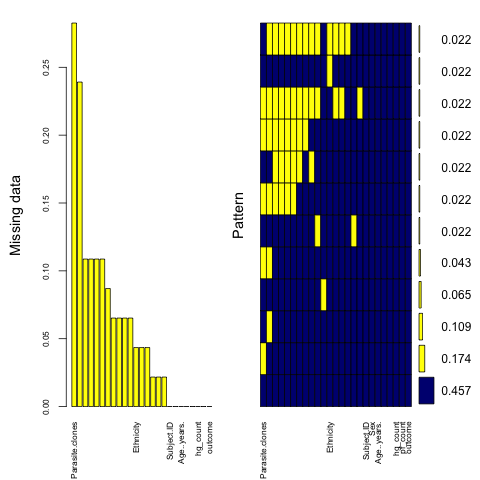
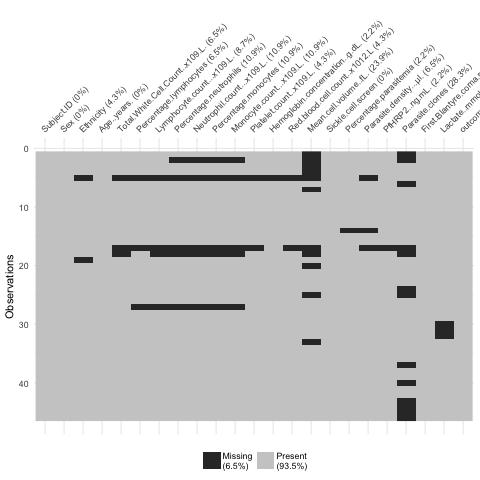
updated

diff --git a/shinyapp2/md/discussion.md b/shinyapp2/md/discussion.md
@@ -1,5 +1,24 @@
 ## Discussion
 
+A parametric model was appropriate in our case, as the data showed fairly normal distributions (see chapter _Methods_ [INSERT LINK HERE]) and we could identify linear relationships between variables and the response variable. Also, we had very few data available that it was not possible to divide the data into separate train and test data sets to use more elaborate Machine Learning methods, including Random Forest, Support Vector Machines (SVMs), and Elastic map.  
+We wanted to avoid such models that generate highly complex, non-linear relationships between the predictors and the outcome. Also, we wanted to keep the model interpretable, more complex models quickly tend to lose interpretability and more importantly, overfit the data.
+Another aspect we considered when designing the models was which type of data data a user is most likely to have. 
+Once more data has become available, it might be meaningful to explore more elaborate non-parametric predictive models that are more powerful. 
+
+We might want to consider models where outliers do not have much influence on the model, eg tree-based classification models if we formulate our problem as a classification problem. Also SVM (Support Vector Machines) for classification generally disregard a part of the training set (that may be far away from the decision boundary and outside of the data mainstream) when creating a prediction equation. However, there is always a trade-off between performance on existent data set and over-fitting, and also the loss of interpretability in case of Machine Learning methods. In any case, the complex model should be properly validated.
+<!--
+Thre predictive performance, provided the complex model is properly validated, may compensate the loss in interpretation. 
+-->
+However, this was not the purpose of this project.
+
+For more complex models, one might want to incorporate the information of the developmental stage of the disease (given by the surrogate proportion variables (SPVs) at different time points in the life cycle) as well the level of gametocytes (Gam5) representing the sexual stage of the parasite.
+The observations found in chapter _Data preparation_ [INSERT LINK HERE] might help for that.
+
+Also, additional insight might be gained by comparing different species. We developed a logistic regression on the mouse data set; however, comparison to our models behind this web tool here, turned out to be difficult as it was not based on the same measurements and very few data was available. 
+
+Once more data has become available, we might also want analyse with respect to different subject ID groups.
+
+<!---
 Main problems
 
 - not enough data
@@ -7,20 +26,14 @@ Main problems
 - Machine Learning methods not applied since overfitting and interpretability...
 
 - outliers, dimension of data
---> transformations for multiple predictors
+transformations for multiple predictors
 
-We might want to consider models where outliers do not have much influence on the model (see tab "Discussion" INSERT HYPERLINK TO TAB), eg tree-based classification models if we formulate our problem as a classification problem. Also SVM (Support Vector Machines) for classification generally disregard a part of the training set (that may be far away from the decision boundary and outside of the data mainstream) when creating a prediction equation. However, there is always a trade-off between performance on existent data set and over-fitting, and also of interpretability in case of ML methods.
+-->
 
+<!--
 If the model is very senstive to outliers (which is not the case here), we could use the __spaial sign__ transformation (Seernels et al. 2006 INSERT IN REFERENCE LIST) which projects the predictor values onto a multidimensional sphere and thus makes all the samples the same distance from the centre of the sphere. This is mathematically done by each sample divided by its squared norm INSERT FORMULA HERE. One should note that centering and scaling of the predictor data is necessary because the denominator is intended to measure the squared distance to the centre of thre predictor's distribution. Also, this method transforms the predictors as a group, so we should not remove predictor variables after it. 
+-->
 
-- analyse different subject ID groups
-
-
-- parasitemia stages
-spreadsheet with the SPVs (surrogate proportion variables) for each parasite developmental stage
-You can use these as covariates, treating each as if it is a real number. You can think of them as representing the relative abundance of each developmental stage when compared between samples. I think they are scaled from -1 to +1.
-0hrs, 24hrs and 48 hrs represent the different time point in the life cycle, progressing from most immature to most mature stages. Gametocytes are the sexual stage of the parasite.
-They may help explain some of the variation in your data, but they may not be very useful for the end user of the website because they don’t easily convert to real proportions or numbers
 
  
  

diff --git a/shinyapp2/md/data.md b/shinyapp2/md/data.md
@@ -1,7 +1,7 @@
 ## Data
 
 ### Main data set
-The data that was used consisted of 46 samples from malaria patients and 27 variables (see figure 1 for a preview [INSERT LINK HERE]). As various values were missing (see figure 2 [INSERT LINK HERE]), we only took the samples that were complete. However, only 21 samples were complete on all 27 variables. Therefore, we only discarded the non-complete samples after variable selection (see chapter _Methods_ [INSERT LINK HERE]), ie we discarded the samples that were not complete on the variables that we identified as most explaining. This complete data set containing 40 samples and for 6 important variables (Parasitemia percentage, parasitemia density, total white blood cell count, lymphocyte percentage, monocyte percentage, and neutrophil percentage) and the repsonse variable (percentage of reads that map to the pathogen).
+The data that was used consisted of 46 samples from malaria patients and 23 variables (see figure 1 for a preview [INSERT LINK HERE]). As various values were missing (see figure 2 [INSERT LINK HERE]), we only took the samples that were complete. However, only 21 samples were complete on all 27 variables. Therefore, we only discarded the non-complete samples after variable selection (see chapter _Methods_ [INSERT LINK HERE]), ie we discarded the samples that were not complete on the variables that we identified as most explaining. This complete data set containing 40 samples and for 6 important variables (Parasitemia percentage, parasitemia density, total white blood cell count, lymphocyte percentage, monocyte percentage, and neutrophil percentage) and the repsonse variable (percentage of reads that map to the pathogen).
 
 ### Two more data sets were available:
 One consisted of RNA Seq data from mice containing 33 samples. However, parasitemia percentage was the only variable available for prediction. Additionally, it contained many zero values where it was not clear whether this was due to measurement errors or actual non-infected mice. 
@@ -14,5 +14,9 @@ Significant relationships between the developmental stage and some variables, ie
 However, the developmental stages were not directly correlated to our response variable, and did not explain the outliers found in our dataset. Therefore, we did not incorporate them in the model presented.
 Nontheless, they might be relevant for more complex models and once more data has become available.
 
-[INSERT FIGURE 1]
+
+![alt text][missing]
+
+[missing]: https://github.com/burfel/malaria-prediction/blob/master/shinyapp2/img/missingData.png "Missing values in the data set"
+
 [INSERT FIGURE 2]

diff --git a/shinyapp2/md/abstract.md b/shinyapp2/md/abstract.md
@@ -1,10 +1,12 @@
 ## Abstract
 
 #### Dual RNA-seq is an increasing popular approach to investigate host-pathogen interaction. Malaria is an excellent paradigm for its application in humans, because both human leukocytes and malaria parasites are present in circulating blood. However application of this approach has been limited by variability in the depth of reads mapped to parasites, with some studies finding insufficient parasite reads for analysis. It has been found that parasite reads constitute between 1% and 70% of the total reads obtained from patient blood samples (see figure 1 [INSERT LINK TO FIGURE 1]), and this appears to be dependent on three main factors: 1) the number of parasites in the blood sample, 2) the number of human white blood cells in the sample, and 3) the developmental stage of the parasites. 
-For phsicians and biologists in the malaria community it is of substantial use to know how many of the dual RNA-seq reads will map to the host, and how many will map to the pathogen in order to know how many reads are necessary in the first place for the study they are interested. 
+For physicians and biologists in the malaria community it is of substantial use to know how many of the dual RNA-seq reads will map to the host, and how many will map to the pathogen in order to know how many reads are necessary in the first place for the study they are interested. 
 The purpose of this project is to develop a simple prediction tool that will enable a user to estimate the likely proportion of reads that will map to parasite and host, given basic information about the sample. This will be of substantial use to the malaria research community and may result in a publication.
 
-[INSERT FIGURE 1]
+![alt text][density]
+
+[density]: https://github.com/burfel/malaria-prediction/blob/master/shinyapp2/img/pathogen-read-density.png "Density plot visualising the variation of reads that map to the pathogen"
 
 The web tool can be found in chapter _Results_ [INSERT LINK HERE]. 
 For more information on what data set the model was built, see chapter _Data Preparation_ [INSERT LINK HERE] as well as CHAPTER _Methods_ [INSERT LINK HERE].

diff --git a/shinyapp2/md/introduction.md b/shinyapp2/md/introduction.md
@@ -1,8 +1,5 @@
 ## Introduction
 
-#### Dual RNA-seq is an increasing popular approach to investigate host-pathogen interaction. Malaria is an excellent paradigm for its application in humans, because both human leukocytes and malaria parasites are present in circulating blood. However application of this approach has been limited by variability in the depth of reads mapped to parasites, with some studies finding insufficient parasite reads for analysis. It has been found that parasite reads constitute between 1% and 70% of the total reads obtained from patient blood samples (see figure 1 [INSERT LINK TO FIGURE 1]), and this appears to be dependent on three main factors: 1) the number of parasites in the blood sample, 2) the number of human white blood cells in the sample, and 3) the developmental stage of the parasites. 
-For phsicians and biologists in the malaria community it is of substantial use to know how many of the dual RNA-seq reads will map to the host, and how many will map to the pathogen in order to know how many reads are necessary in the first place for the study they are interested. 
-The purpose of this project is to develop a simple prediction tool that will enable a user to estimate the likely proportion of reads that will map to parasite and host, given basic information about the sample. This will be of substantial use to the malaria research community and may result in a publication.
-
-[INSERT FIGURE 1]
+EXPLAIN MALARIA. WHY SO INTERESTING?
+BIOLOGIGAL BACKGROUND.
  

diff --git a/shinyapp2/md/conclusion.md b/shinyapp2/md/conclusion.md
@@ -1,13 +1,9 @@
 ## Conclusion
 
-- COMPARE TO MOUSE DATA SET? BUT NOT MUCH INSIGHT...
+Based on the given data sets of dual RNA-seq reads and different measurements of the malaria patients, we developed a simple general linear model that appropriately [SHOW THAT!] predicts the percentage of reads that will map to the host and to the pathogen. [GIVE SOME STATISTICS HERE]
 
+The model was kept simple in order for the malaria community to be easy to use and the results easy to interpret. Also, we restricted the variables to the measurements a user is most likely to have. 
 
-We wanted to avoid models that generate highly complex, non-linear relationships between the predictors and the outcome. 
+We hope that this webtool will turn out to be useful for the malaria community.
 
-Unfortunately, the predictive models that are most powerful are usually the least interpretable. 
-However, as interpretability is not the primary goal in predictive models, it may not be appropriate to use a model that is built for interpretation rather than predictive performance as long as complex models are properly validated.
-
-Additional insight can be gained by 
-
-Once data has become available...
+If you have any further questions, suggestions and feedback, please get in touch at [INSERT EMAIL/ MAILTO].
